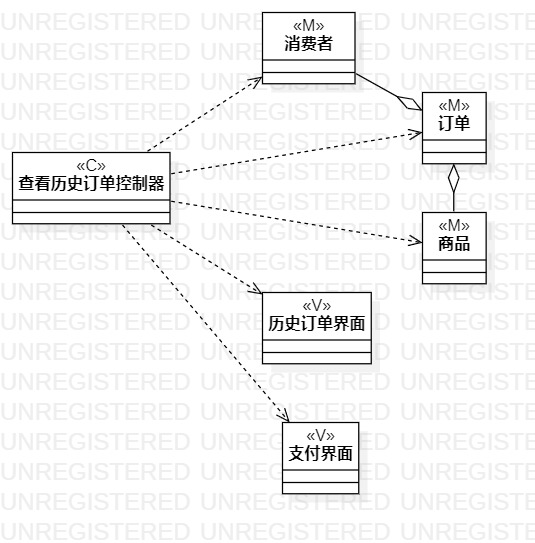
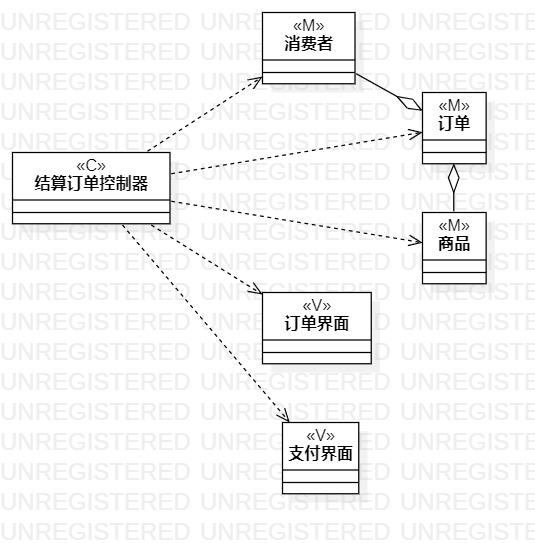
#6 #921 实验六:交互建模 修改了实验2、3

Changed region(s): [[0.4785, 0.5599, 0.6879, 0.6188], [0.0299, 0.3241, 0.329, 0.3536]]

diff --git a/students/1714080902129/lab2.md b/students/1714080902129/lab2.md
@@ -30,17 +30,16 @@ https://github.com/hzuapps/uml-modeling-2020/issues
 后置条件  | 完成订单结算 |    
 基本流程  | 1. 消费者点击已经存在的订单 |   用例执行成功步骤
 ~| 2. 页面显示订单的详细内容 |
-~| 3. 消费者检查订单 |
-~| 4. 消费者点击支付按钮 |
-~| 5. 消费者选择支付方式，点击支付 |
-~| 6. 跳转到支付页面 |
-~| 7. 输入支付密码  |
-~| 8. 系统检查支付密码 |
-~| 9. 系统检查到余额是否充足 |
-~| 10. 系统检查支付已到帐 |
-~| 11. 订单支付完成
-扩展流程  | 8.1 系统检查到支付密码不正确，提示"您输入的支付密码错误,请重新输入" | 用例执行失败
-~|  9.1 系统检测到消费者余额不足，提示"您的余额不足,请先充值" |
+~| 3. 消费者点击支付按钮 |
+~| 4. 跳转到支付页面 |
+~| 5. 输入支付密码  |
+~| 6. 点击确认支付按钮
+~| 7. 系统检查支付密码 |
+~| 8. 系统检查到余额是否充足 |
+~| 9. 系统检查支付已到帐 |
+~| 10. 订单支付完成
+扩展流程  | 7.1 系统检查到支付密码不正确，提示"您输入的支付密码错误,请重新输入" | 用例执行失败
+~|  8.1 系统检测到消费者余额不足，提示"您的余额不足,请先充值" |
 
 ### 表2：查询历史账单用例规约  
 
@@ -51,7 +50,8 @@ https://github.com/hzuapps/uml-modeling-2020/issues
 后置条件  | 页面显示消费者的历史订单列表 |    
 基本流程  | 1. 消费者点击查询订单按钮 |  用例执行成功步骤  
 ~| 2. 消费者输入隐私密码 |
-~| 3. 系统检查隐私密码 |   
-~| 4. 系统搜索该消费者的所有订单 |
-~| 5. 显示搜索到的历史订单列表 |
-扩展流程  | 3.1 系统检查到消费者输入的隐私密码不正确,提示"您输入的隐私密码不正确,请重新输入" | 用例执行失败
+~| 3. 点击确定查看按钮 |
+~| 4. 系统检查隐私密码 |   
+~| 5. 系统搜索该消费者的所有订单 |
+~| 6. 显示搜索到的历史订单列表 |
+扩展流程  | 4.1 系统检查到消费者输入的隐私密码不正确,提示"您输入的隐私密码不正确,请重新输入" | 用例执行失败

diff --git a/students/1714080902129/lab6.md b/students/1714080902129/lab6.md
@@ -1,0 +1,36 @@
+# 实验六:对象交互建模及顺序图
+
+
+## 一、实验目标
+
+- 理解系统交互；
+- 掌握UML顺序图的画法；
+- 掌握对象交互的定义与建模方法。
+
+
+## 二、实验内容
+
+1. 根据用例模型和类模型，确定功能所涉及的系统对象；
+2. 在顺序图上画出参与者（对象）；
+3. 在顺序图上画出消息（交互）。
+
+## 三、实验步骤
+
+- 查看自己的用例规约和类图
+
+- 在StarUML中新建Sequence Diagram
+
+- 结合用例和类图画出参与者（消费者），界面（V），结算订单控制器（C），以及消费者等参与者
+
+- 根据实验二的过程图画出完整交互过程
+
+- 修改完善实验
+
+- 编写实验报告
+
+
+## 四、实验结果  
+
+![结算订单交互图](https://raw.githubusercontent.com/Neigb/uml-modeling-2020/master/students/1714080902129/interaction_ddjs.jpg)  
+
+![查看历史订单交互图](https://raw.githubusercontent.com/Neigb/uml-modeling-2020/master/students/1714080902129/interaction_history.jpg)  
